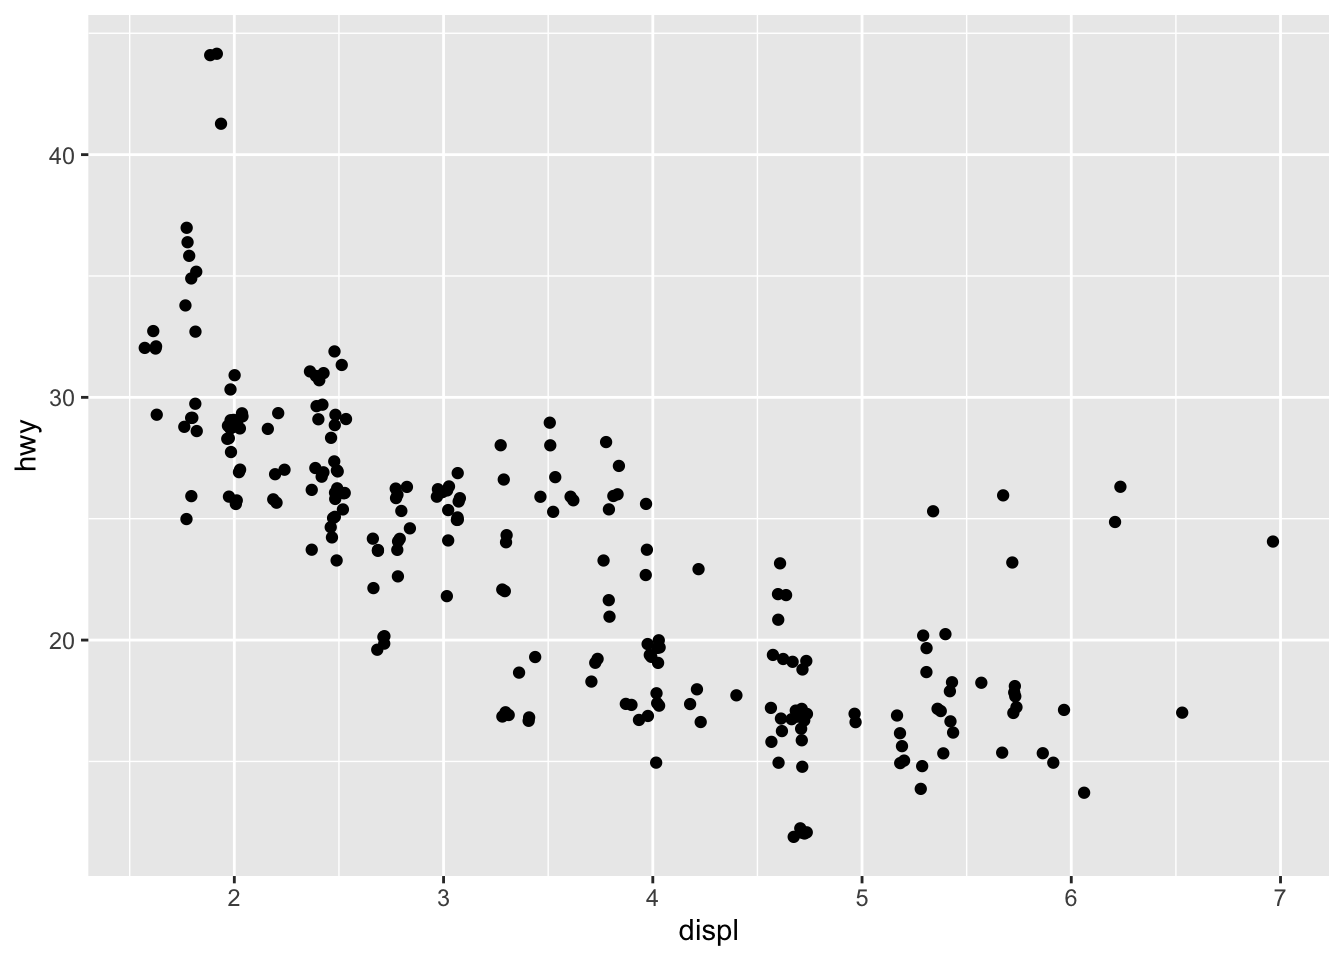
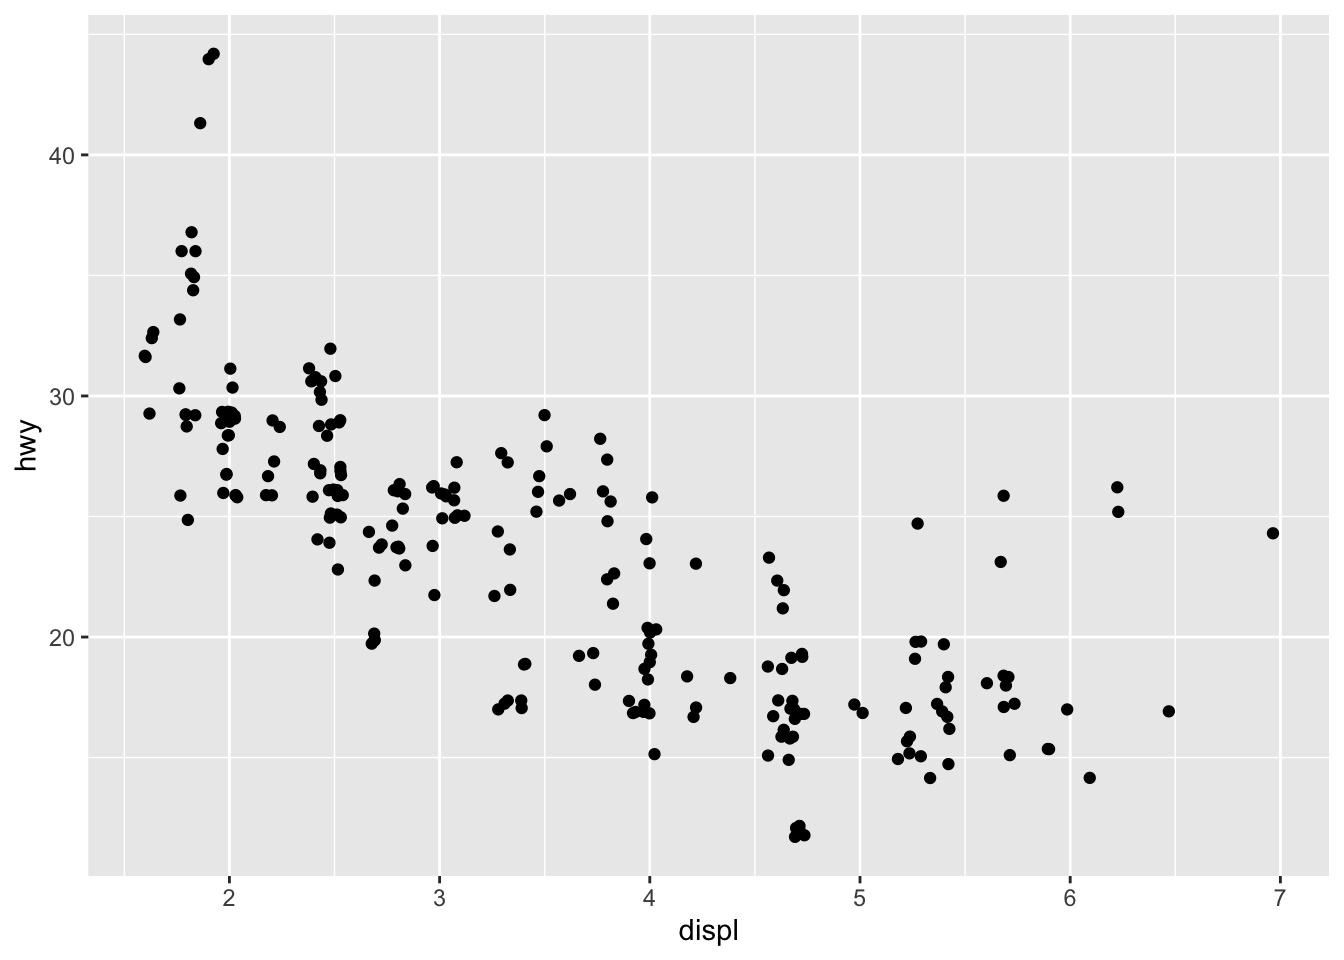
Built site for gh-pages

diff --git a/Visualize/exploratory-data-analysis.html b/Visualize/exploratory-data-analysis.html
@@ -589,13 +589,82 @@ Note
 <div class="code-copy-outer-scaffold"><div class="sourceCode cell-code" id="cb15"><pre class="sourceCode r code-with-copy"><code class="sourceCode r"><span id="cb15-1"><a href="#cb15-1" aria-hidden="true" tabindex="-1"></a><span class="co"># Right</span></span>
 <span id="cb15-2"><a href="#cb15-2" aria-hidden="true" tabindex="-1"></a><span class="fu">ggplot</span>(</span>
 <span id="cb15-3"><a href="#cb15-3" aria-hidden="true" tabindex="-1"></a>  <span class="at">data =</span> diamonds, </span>
-<span id="cb15-4"><a href="#cb15-4" aria-hidden="true" tabindex="-1"></a>  <span class="at">mapping =</span> <span class="fu">aes</span>(<span class="at">x =</span> price, <span class="at">y =</span> <span class="fu">after_stat</span>(density)) <span class="co"># standardized now, instead of displaying count only, making comparison easier</span></span>
-<span id="cb15-5"><a href="#cb15-5" aria-hidden="true" tabindex="-1"></a>) <span class="sc">+</span></span>
-<span id="cb15-6"><a href="#cb15-6" aria-hidden="true" tabindex="-1"></a>  <span class="fu">geom_freqpoly</span>(<span class="at">mapping =</span> <span class="fu">aes</span>(<span class="at">color =</span> cut), <span class="at">binwidth =</span> <span class="dv">500</span>, <span class="at">linewidth =</span> <span class="fl">0.75</span>) <span class="sc">+</span>   <span class="fu">scale_color_colorblind</span>()</span></code></pre></div><button title="Copy to Clipboard" class="code-copy-button"><i class="bi"></i></button></div>
+<span id="cb15-4"><a href="#cb15-4" aria-hidden="true" tabindex="-1"></a>  <span class="at">mapping =</span> <span class="fu">aes</span>(<span class="at">x =</span> price, <span class="at">y =</span> <span class="fu">after_stat</span>(density)) </span>
+<span id="cb15-5"><a href="#cb15-5" aria-hidden="true" tabindex="-1"></a><span class="co"># standardized now, instead of displaying count only, making comparison easier</span></span>
+<span id="cb15-6"><a href="#cb15-6" aria-hidden="true" tabindex="-1"></a><span class="co"># See ?geom_freqploy or ?stat_bin, the underlying mechanism of geom_freqpol()</span></span>
+<span id="cb15-7"><a href="#cb15-7" aria-hidden="true" tabindex="-1"></a>) <span class="sc">+</span></span>
+<span id="cb15-8"><a href="#cb15-8" aria-hidden="true" tabindex="-1"></a>  <span class="fu">geom_freqpoly</span>(<span class="at">mapping =</span> <span class="fu">aes</span>(<span class="at">color =</span> cut), <span class="at">binwidth =</span> <span class="dv">500</span>, <span class="at">linewidth =</span> <span class="fl">0.75</span>) <span class="sc">+</span>   <span class="fu">scale_color_colorblind</span>()</span></code></pre></div><button title="Copy to Clipboard" class="code-copy-button"><i class="bi"></i></button></div>
 <div class="cell-output-display">
 <div>
 <figure class="figure">
 <p><img src="exploratory-data-analysis_files/figure-html/Example 1 Covariation-2.png" class="img-fluid figure-img" width="672"></p>
+</figure>
+</div>
+</div>
+<div class="code-copy-outer-scaffold"><div class="sourceCode cell-code" id="cb16"><pre class="sourceCode r code-with-copy"><code class="sourceCode r"><span id="cb16-1"><a href="#cb16-1" aria-hidden="true" tabindex="-1"></a><span class="co"># Simpler approach is side-by-side boxplots</span></span>
+<span id="cb16-2"><a href="#cb16-2" aria-hidden="true" tabindex="-1"></a><span class="fu">ggplot</span>(</span>
+<span id="cb16-3"><a href="#cb16-3" aria-hidden="true" tabindex="-1"></a>  <span class="at">data =</span> diamonds,</span>
+<span id="cb16-4"><a href="#cb16-4" aria-hidden="true" tabindex="-1"></a>  <span class="at">mapping =</span> <span class="fu">aes</span>(<span class="at">x =</span> cut, <span class="at">y =</span> price)) <span class="sc">+</span></span>
+<span id="cb16-5"><a href="#cb16-5" aria-hidden="true" tabindex="-1"></a>    <span class="fu">geom_boxplot</span>()</span></code></pre></div><button title="Copy to Clipboard" class="code-copy-button"><i class="bi"></i></button></div>
+<div class="cell-output-display">
+<div>
+<figure class="figure">
+<p><img src="exploratory-data-analysis_files/figure-html/Example 1 Covariation-3.png" class="img-fluid figure-img" width="672"></p>
+</figure>
+</div>
+</div>
+</div>
+<div class="callout callout-style-default callout-tip callout-titled">
+<div class="callout-header d-flex align-content-center">
+<div class="callout-icon-container">
+<i class="callout-icon"></i>
+</div>
+<div class="callout-title-container flex-fill">
+Tip
+</div>
+</div>
+<div class="callout-body-container callout-body">
+<p><code>cut</code>is ordered factor, BUT many categorcial variables dont have such intrinsic order, hence reordering is appropriate. Do so by <code>fct_reorder()</code></p>
+</div>
+</div>
+<div class="cell">
+<div class="code-copy-outer-scaffold"><div class="sourceCode cell-code" id="cb17"><pre class="sourceCode r code-with-copy"><code class="sourceCode r"><span id="cb17-1"><a href="#cb17-1" aria-hidden="true" tabindex="-1"></a><span class="co"># Example 1</span></span>
+<span id="cb17-2"><a href="#cb17-2" aria-hidden="true" tabindex="-1"></a><span class="fu">ggplot</span>(</span>
+<span id="cb17-3"><a href="#cb17-3" aria-hidden="true" tabindex="-1"></a>  <span class="at">data =</span> diamonds,</span>
+<span id="cb17-4"><a href="#cb17-4" aria-hidden="true" tabindex="-1"></a>  <span class="at">mapping =</span> <span class="fu">aes</span>(<span class="at">x =</span> cut, <span class="at">y =</span> price)</span>
+<span id="cb17-5"><a href="#cb17-5" aria-hidden="true" tabindex="-1"></a>) <span class="sc">+</span> </span>
+<span id="cb17-6"><a href="#cb17-6" aria-hidden="true" tabindex="-1"></a> <span class="fu">geom_boxplot</span>(</span>
+<span id="cb17-7"><a href="#cb17-7" aria-hidden="true" tabindex="-1"></a>   <span class="at">mapping =</span> <span class="fu">aes</span>(<span class="at">x =</span> <span class="fu">fct_reorder</span>(cut, price, median)))</span></code></pre></div><button title="Copy to Clipboard" class="code-copy-button"><i class="bi"></i></button></div>
+<div class="cell-output-display">
+<div>
+<figure class="figure">
+<p><img src="exploratory-data-analysis_files/figure-html/Reordering categorical variables using fct_reorder()-1.png" class="img-fluid figure-img" width="672"></p>
+</figure>
+</div>
+</div>
+<div class="code-copy-outer-scaffold"><div class="sourceCode cell-code" id="cb18"><pre class="sourceCode r code-with-copy"><code class="sourceCode r"><span id="cb18-1"><a href="#cb18-1" aria-hidden="true" tabindex="-1"></a><span class="co"># Example 2</span></span>
+<span id="cb18-2"><a href="#cb18-2" aria-hidden="true" tabindex="-1"></a><span class="fu">ggplot</span>(</span>
+<span id="cb18-3"><a href="#cb18-3" aria-hidden="true" tabindex="-1"></a>  <span class="at">data =</span> mpg, </span>
+<span id="cb18-4"><a href="#cb18-4" aria-hidden="true" tabindex="-1"></a>  <span class="at">mapping =</span> <span class="fu">aes</span>(<span class="at">x =</span> <span class="fu">fct_reorder</span>(class, hwy, median), <span class="at">y =</span> hwy)</span>
+<span id="cb18-5"><a href="#cb18-5" aria-hidden="true" tabindex="-1"></a>) <span class="sc">+</span></span>
+<span id="cb18-6"><a href="#cb18-6" aria-hidden="true" tabindex="-1"></a>  <span class="fu">geom_boxplot</span>()</span></code></pre></div><button title="Copy to Clipboard" class="code-copy-button"><i class="bi"></i></button></div>
+<div class="cell-output-display">
+<div>
+<figure class="figure">
+<p><img src="exploratory-data-analysis_files/figure-html/Reordering categorical variables using fct_reorder()-2.png" class="img-fluid figure-img" width="672"></p>
+</figure>
+</div>
+</div>
+<div class="code-copy-outer-scaffold"><div class="sourceCode cell-code" id="cb19"><pre class="sourceCode r code-with-copy"><code class="sourceCode r"><span id="cb19-1"><a href="#cb19-1" aria-hidden="true" tabindex="-1"></a><span class="co"># Example 3: Flipping axis with long names</span></span>
+<span id="cb19-2"><a href="#cb19-2" aria-hidden="true" tabindex="-1"></a><span class="fu">ggplot</span>(</span>
+<span id="cb19-3"><a href="#cb19-3" aria-hidden="true" tabindex="-1"></a>  <span class="at">data =</span> mpg, </span>
+<span id="cb19-4"><a href="#cb19-4" aria-hidden="true" tabindex="-1"></a>  <span class="at">mapping =</span> <span class="fu">aes</span>(<span class="at">y =</span> <span class="fu">fct_reorder</span>(class, hwy, median), <span class="at">x =</span> hwy)</span>
+<span id="cb19-5"><a href="#cb19-5" aria-hidden="true" tabindex="-1"></a>) <span class="sc">+</span></span>
+<span id="cb19-6"><a href="#cb19-6" aria-hidden="true" tabindex="-1"></a>  <span class="fu">geom_boxplot</span>()</span></code></pre></div><button title="Copy to Clipboard" class="code-copy-button"><i class="bi"></i></button></div>
+<div class="cell-output-display">
+<div>
+<figure class="figure">
+<p><img src="exploratory-data-analysis_files/figure-html/Reordering categorical variables using fct_reorder()-3.png" class="img-fluid figure-img" width="672"></p>
 </figure>
 </div>
 </div>